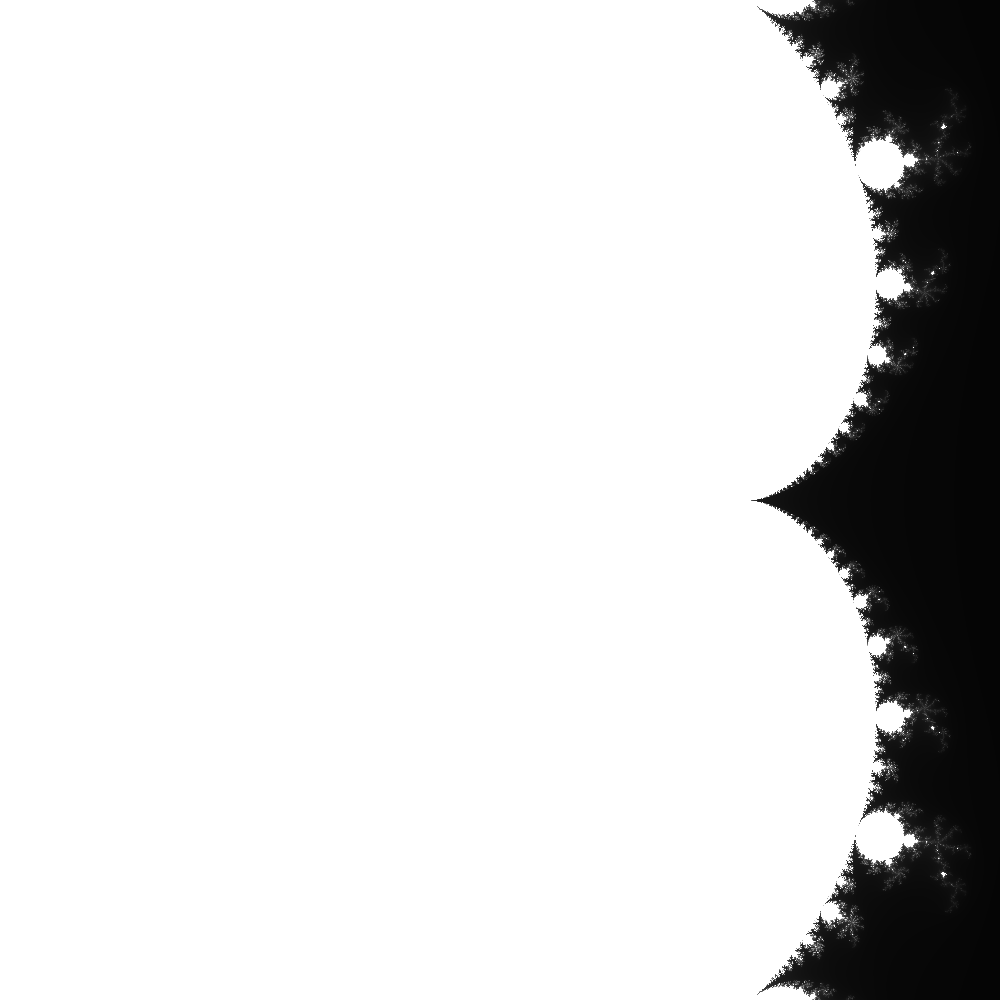
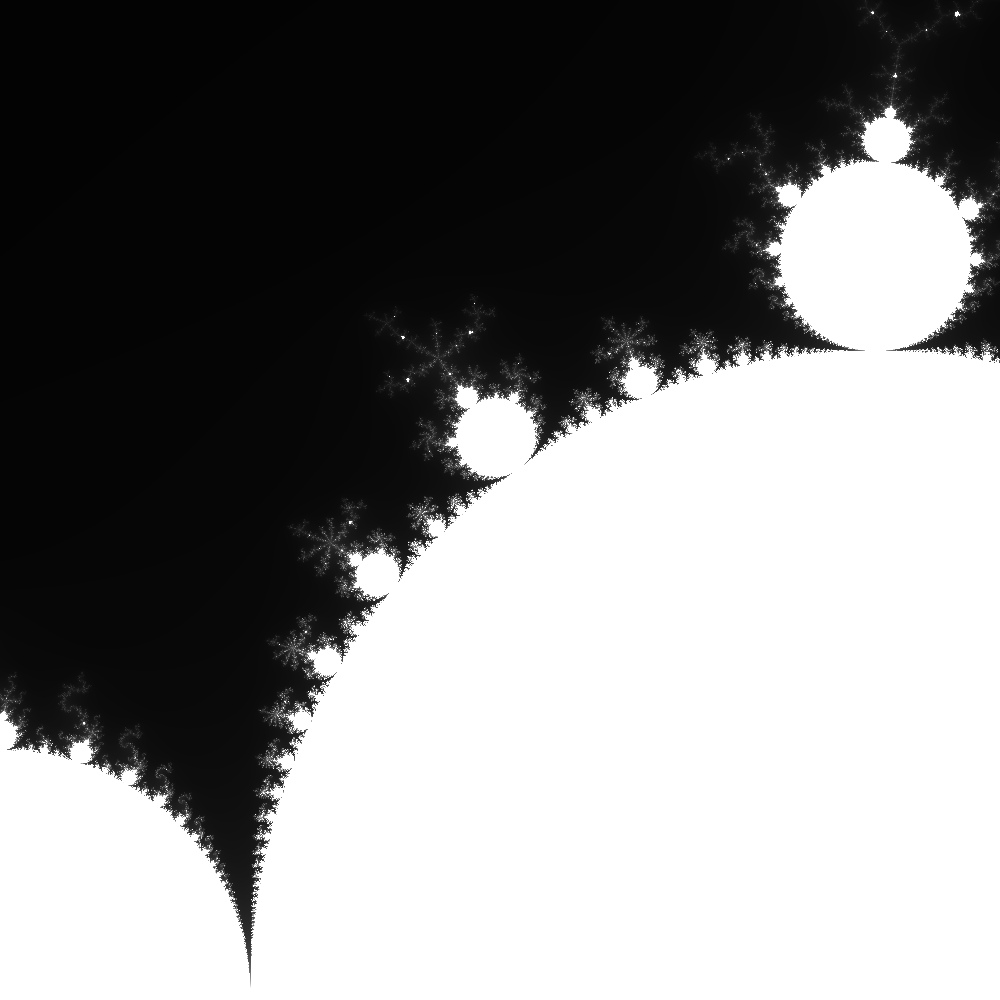
added second and thrid zoom positions, adding messages to alert the user when each image is done rendering

diff --git a/src/HW8MandelbrotSet/HW8MandelbrotSet.java b/src/HW8MandelbrotSet/HW8MandelbrotSet.java
@@ -37,61 +37,55 @@ public class HW8MandelbrotSet {
                 //create the array with the size of the image that is specified
                 int[][] img = new int[width][height];
 
-                //allow for input for the coordinates from the user
-                //defaults to largest image
-                System.out.println("Generate the window to zoom on: ");
-                System.out.println("*To generate the full image, use -2, -1; 1, 1 for coordinates*");
-                System.out.println("Enter the lower bound coordinates (top left corner): ");
-                System.out.println("X1: ");
-                double r1 = kb.nextDouble();
-                System.out.println("Y1: ");
-                double i1 = kb.nextDouble();
-                System.out.println("Enter the upper bound coordinates (bottom right corner): ");
-                System.out.println("X2: ");
-                double r2 = kb.nextDouble();
-                System.out.println("Y2: ");
-                double i2 = kb.nextDouble();
+                //full image
+                ComplexNumber c1;
+                for(int i = 0; i < width; i++) {
+                    for(int j = 0; j < height; j++) {
 
-                ComplexNumber c1 = new ComplexNumber(r1, i1);
-                ComplexNumber c2 = new ComplexNumber(r2, i2);
+                        //linear interpolation done depending on the position
+                        double real = (j - width/2.0) * 4.0 / width;
+                        double imag = (i - height/2.0) * 4.0 / width;
 
-                //linear interpolation to map two complex numbers
-                Random rn = new Random();
-                double x1 = 0;
-                double x2 = 0;
-                double y1 = 0;
-                double y2 = 0;
-
-                if (c1.getReal() > c2.getReal()) {
-                    x1 = c2.getReal();
-                    x2 = c1.getReal();
-                }else{
-                    x1 = c1.getReal();
-                    x2 = c2.getReal();
+                        c1 = new ComplexNumber(real, imag);
+                        img[i][j] = Mandelbrot.inSet(c1);
+                    }
                 }
-                if (c1.getImag() > c2.getImag()) {
-                    y1 = c2.getImag();
-                    y2 = c1.getImag();
-                }else{
-                    y1 = c1.getImag();
-                    y2 = c2.getImag();
-                }
+                ImageWrite(img, "mandelbrot_fractal.png");
+                System.out.println("Image 1 rendered.");
 
-                ComplexNumber c;
+                //zoom1 on the fractal
+                ComplexNumber c2;
                 for(int i = 0; i < width; i++) {
                     for(int j = 0; j < height; j++) {
 
                         //linear interpolation done depending on the position
                         double zoom = 1.0;
-                        double a1 = 1.0;
                         double real = (j - width/1.0) * zoom / width;
                         double imag = (i - height/1.0) * zoom / width;
 
-                        c = new ComplexNumber(real, imag);
-                        img[i][j] = Mandelbrot.inSet(c);
+                        c2 = new ComplexNumber(real, imag);
+                        img[i][j] = Mandelbrot.inSet(c2);
                     }
                 }
-                ImageWrite(img, "mandelbrot_fractal_zoom.png");
+                ImageWrite(img, "mandelbrot_fractal_zoom1.png");
+                System.out.println("Image 2 rendered.");
+
+                //zoom2 on the fractal
+                ComplexNumber c3;
+                for(int i = 0; i < width; i++) {
+                    for(int j = 0; j < height; j++) {
+
+                        //linear interpolation done depending on the position
+                        double zoom = 1.0;
+                        double real = (j - width/0.5) * zoom / width;
+                        double imag = (i - height/1.5) * zoom / width;
+
+                        c3 = new ComplexNumber(real, imag);
+                        img[i][j] = Mandelbrot.inSet(c3);
+                    }
+                }
+                ImageWrite(img, "mandelbrot_fractal_zoom2.png");
+                System.out.println("Image 3 rendered.");
 
             }
 
